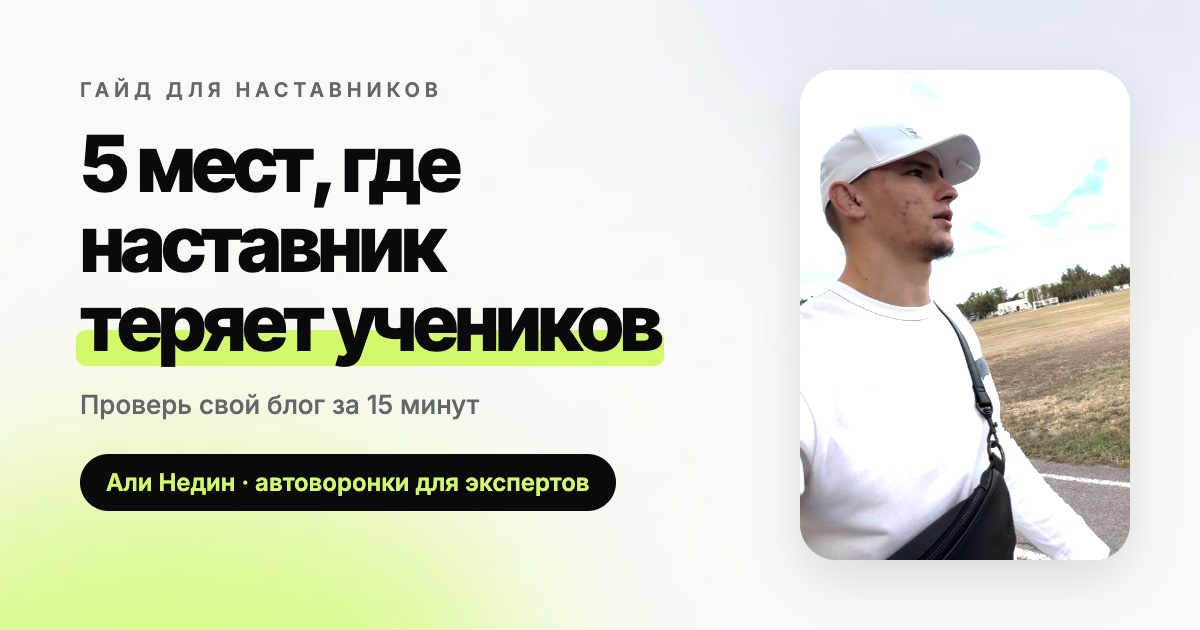
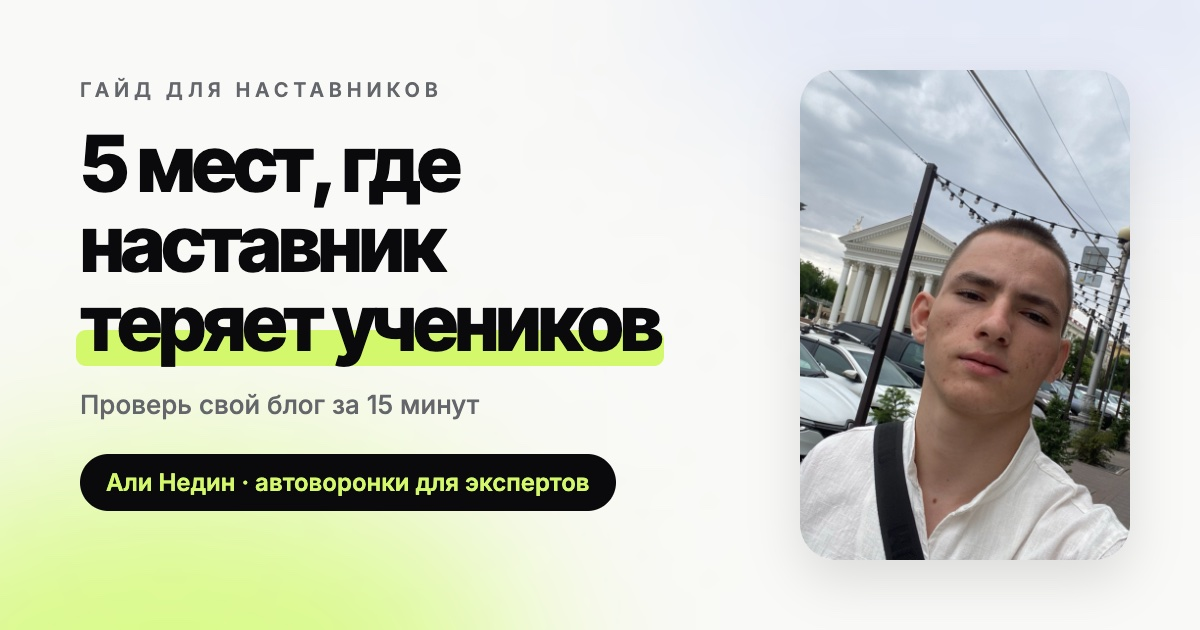
Новые фото вверху и в призыве, новое превью

Changed region(s): [[0.6475, 0.0905, 0.9558, 0.9048]]

diff --git a/index.html b/index.html
@@ -342,7 +342,7 @@ section{padding:56px 0;position:relative}
 @media(min-width:760px){.cta-card{grid-template-columns:300px 1fr;gap:36px;padding:28px}}
 .cta-photo{position:relative}
 .cta-photo img{width:100%;height:auto;aspect-ratio:4/5;object-fit:cover;border-radius:20px;display:block}
-@media(max-width:759px){.cta-photo img{aspect-ratio:1/1;object-position:40% 12%}}
+@media(max-width:759px){.cta-photo img{aspect-ratio:1/1;object-position:50% 72%}}
 .cta-sign{position:absolute;left:12px;bottom:12px;background:rgba(10,10,12,.74);-webkit-backdrop-filter:blur(8px);backdrop-filter:blur(8px);border-radius:14px;padding:8px 12px;line-height:1.25}
 .cta-sign b{display:block;font-family:var(--font-head);font-size:16px;letter-spacing:-.01em}
 .cta-sign span{font-size:12px;color:var(--muted)}
@@ -424,7 +424,7 @@ footer{padding:28px 0 100px;font-size:14px;color:var(--muted);text-align:center}
     </ol>
 
     <div class="me card reveal">
-      <img src="ali.jpg" alt="Али Недин" width="608" height="760" loading="lazy">
+      <img src="ali-top.jpg" alt="Али Недин" width="800" height="1000" loading="lazy">
       <div>
         <div class="who">Кто я</div>
         <h3>Али Недин</h3>
@@ -722,7 +722,7 @@ footer{padding:28px 0 100px;font-size:14px;color:var(--muted);text-align:center}
   <div class="wrap wide">
     <div class="cta-card reveal">
       <div class="cta-photo">
-        <img src="ali.jpg" alt="Али Недин" width="608" height="760" loading="lazy">
+        <img src="ali-cta.jpg" alt="Али Недин" width="800" height="1000" loading="lazy">
         <div class="cta-sign"><b>Али Недин</b><span>автоворонки для экспертов</span></div>
       </div>
       <div class="cta-body">
